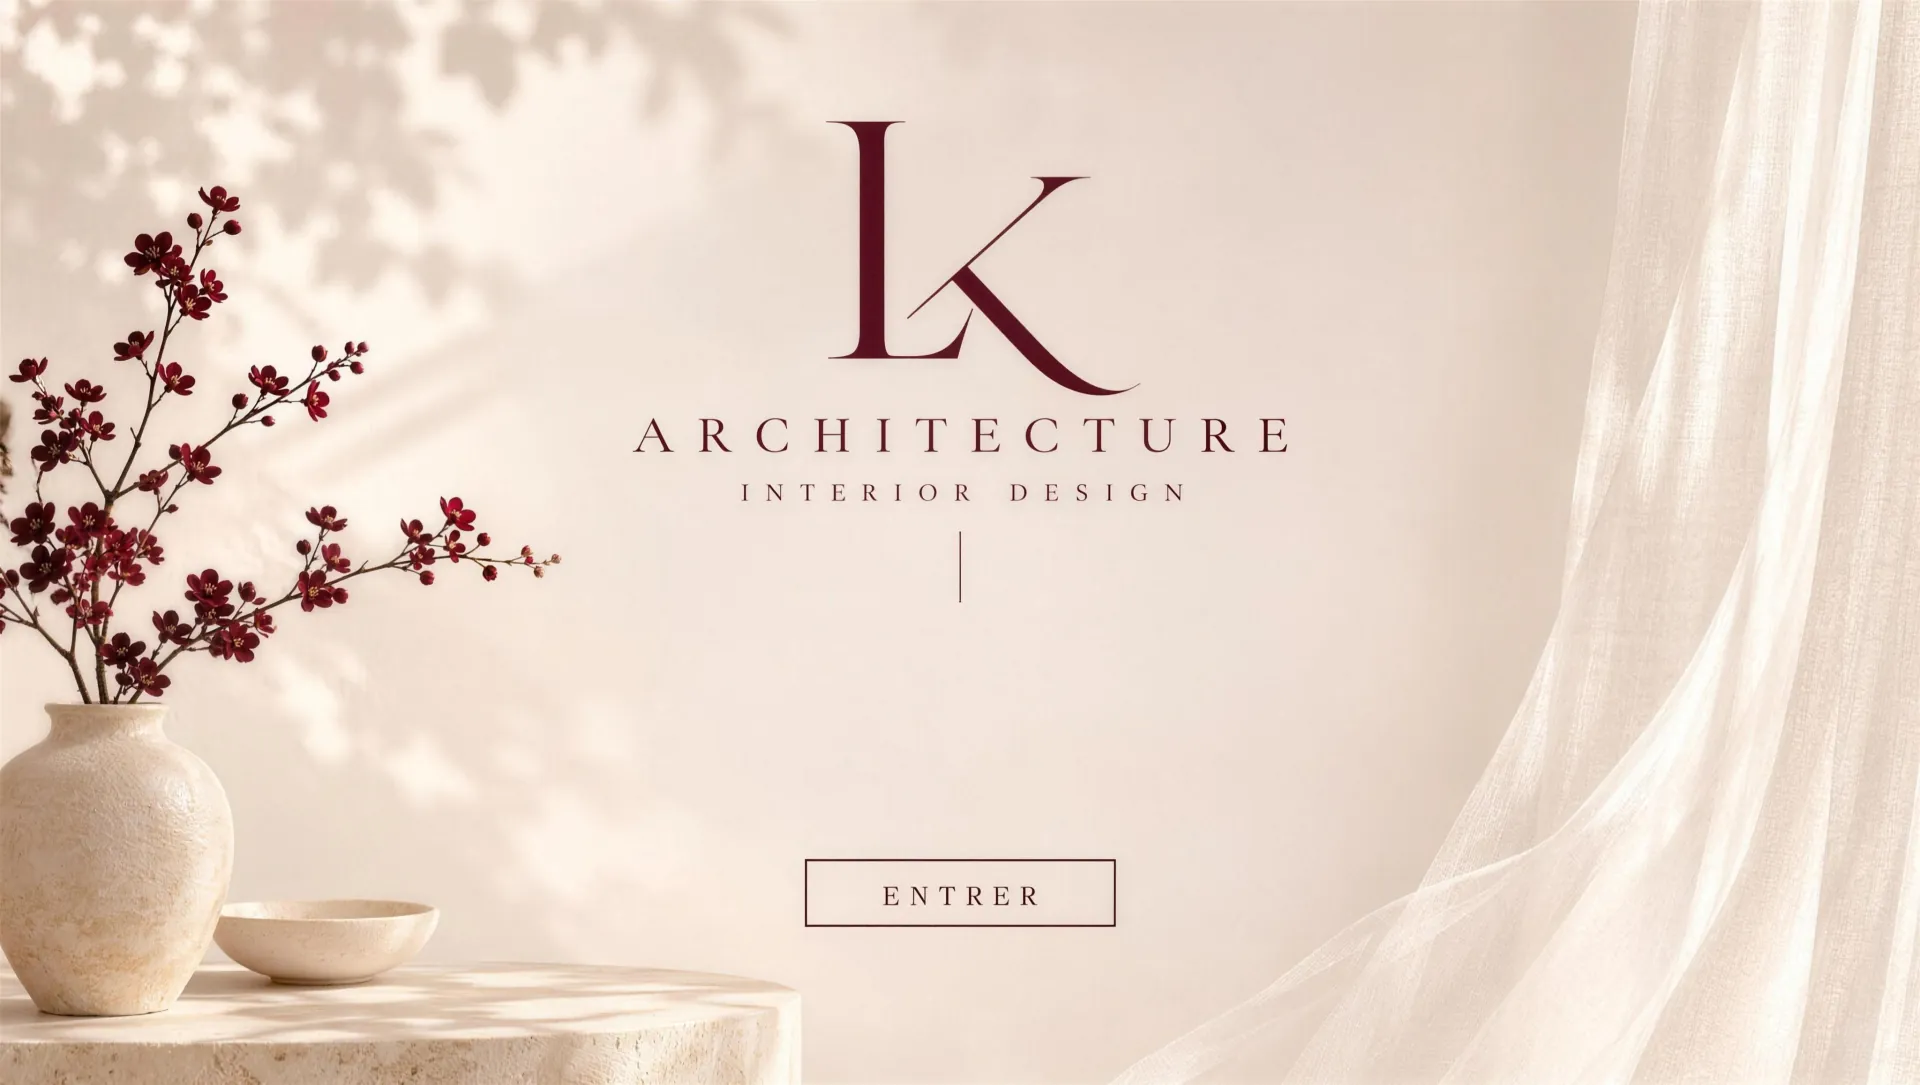
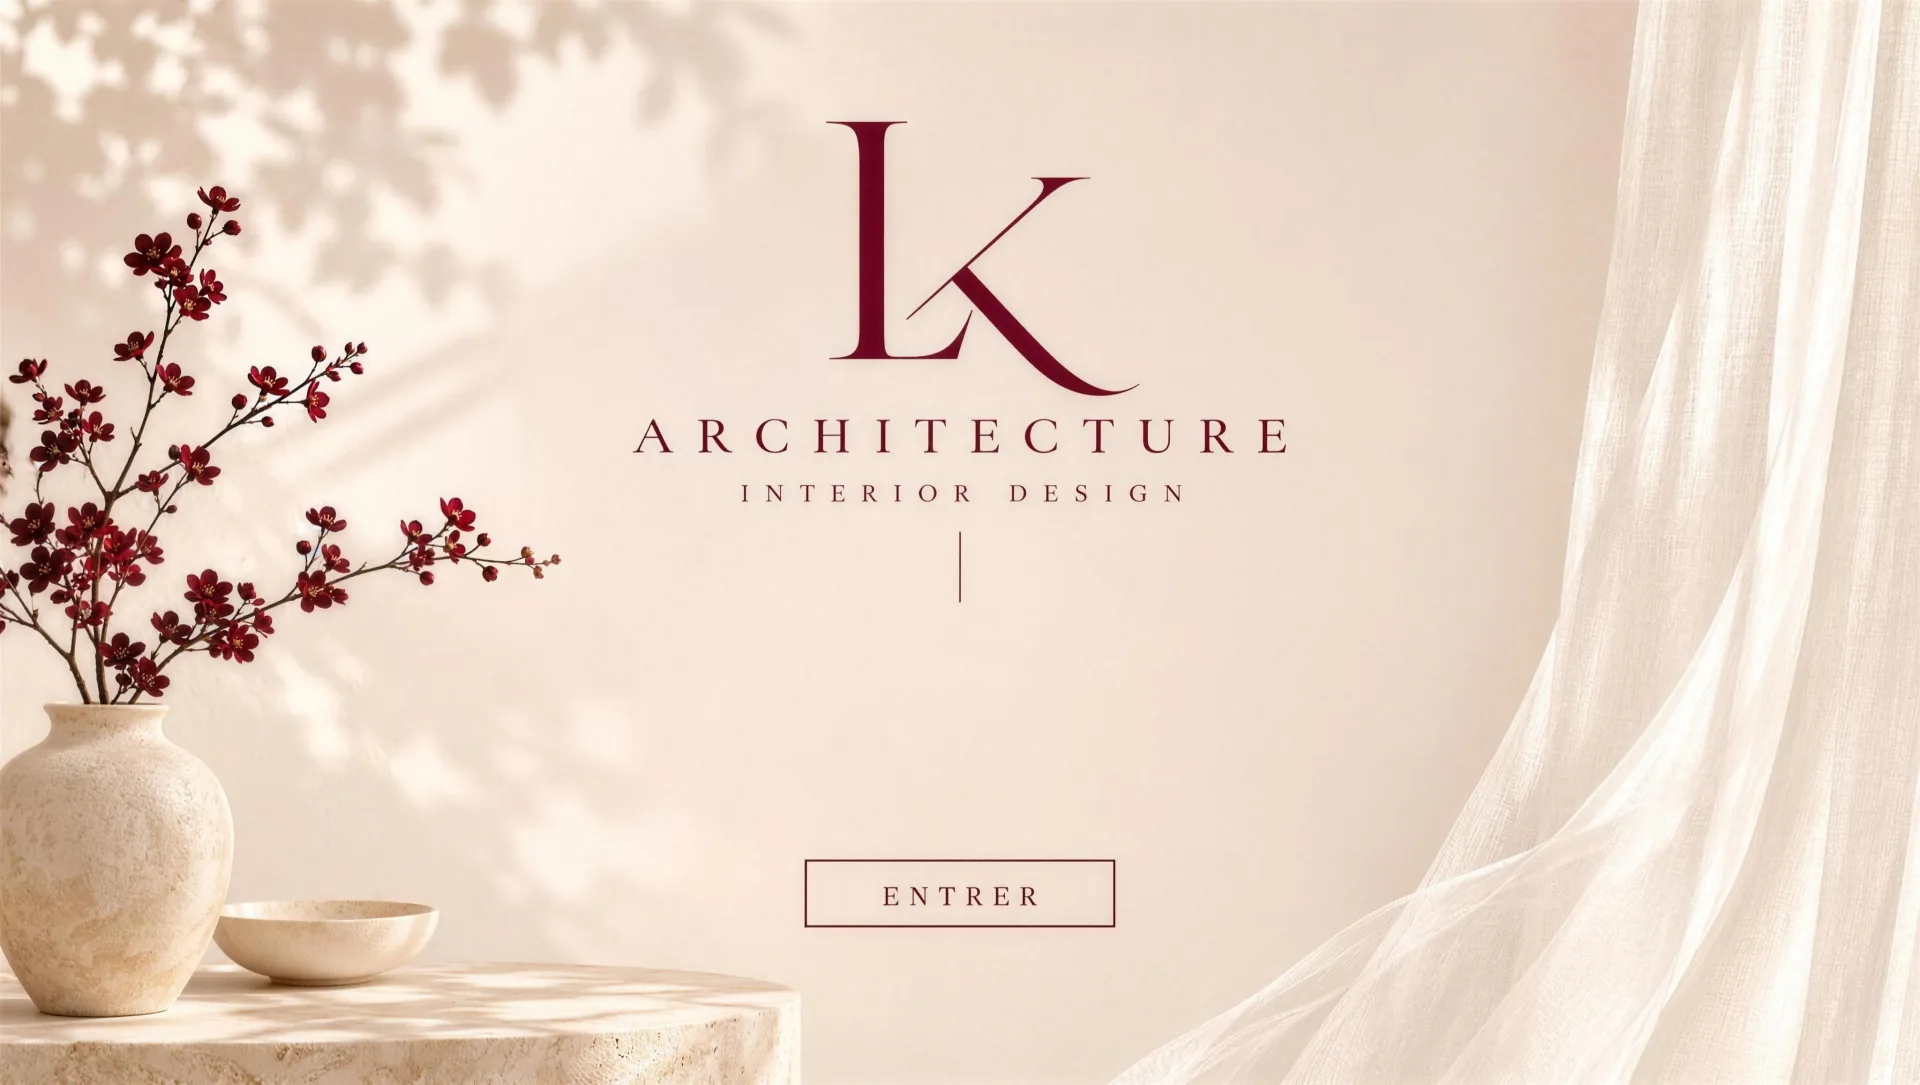
Full uncropped cover from the new PNG, portrait version for phones, English ENTER

diff --git a/en/index.html b/en/index.html
@@ -6,7 +6,8 @@
   <title>LK Architecture — Interior Design in Cessy, Pays de Gex &amp; Geneva</title>
   <meta name="description" content="LK Architecture designs singular, made-to-measure interiors in Cessy, the Pays de Gex and the canton of Geneva: space planning, decoration, plans, 3D visuals, materials and furniture.">
   <meta name="theme-color" content="#eddbcf">
-  <link rel="preload" as="image" type="image/webp" imagesrcset="../img/hero-cover-en-800.webp 800w, ../img/hero-cover-en-1280.webp 1280w, ../img/hero-cover-en-1920.webp 1920w, ../img/hero-cover-en-2560.webp 2560w" imagesizes="(max-aspect-ratio: 1/1) 230vw, 100vw">
+  <link rel="preload" as="image" type="image/webp" media="(min-aspect-ratio: 1/1)" imagesrcset="../img/hero-cover-en-800.webp 800w, ../img/hero-cover-en-1280.webp 1280w, ../img/hero-cover-en-1920.webp 1920w, ../img/hero-cover-en-2560.webp 2560w" imagesizes="100vw">
+  <link rel="preload" as="image" type="image/webp" media="(max-aspect-ratio: 1/1)" imagesrcset="../img/hero-cover-en-p-768.webp 768w, ../img/hero-cover-en-p-1024.webp 1024w, ../img/hero-cover-en-p-1536.webp 1536w" imagesizes="100vw">
   <script type="application/ld+json">{"@context": "https://schema.org", "@type": "ProfessionalService", "@id": "https://lkarchitecture.fr/#lk", "name": "LK Architecture", "url": "https://lkarchitecture.fr/", "description": "Design et architecture d’intérieur sur mesure à Cessy, dans le Pays de Gex le canton de Genève et à Annecy : aménagement, décoration, plans d’aménagement, visuels 3D, choix des matériaux, du mobilier et des luminaires.", "logo": "https://lkarchitecture.fr/img/logo-champagne.svg", "image": ["https://lkarchitecture.fr/img/hero-cover.jpg", "https://lkarchitecture.fr/img/vision-dining.jpg", "https://lkarchitecture.fr/img/vision-marble.jpg"], "email": "lkarchitecture.interior@gmail.com", "telephone": "+33767052190", "address": {"@type": "PostalAddress", "addressLocality": "Cessy", "postalCode": "01170", "addressRegion": "Auvergne-Rhône-Alpes", "addressCountry": "FR"}, "areaServed": [{"@type": "City", "name": "Cessy"}, {"@type": "AdministrativeArea", "name": "Pays de Gex"}, {"@type": "City", "name": "Gex"}, {"@type": "City", "name": "Divonne-les-Bains"}, {"@type": "City", "name": "Ferney-Voltaire"}, {"@type": "City", "name": "Saint-Genis-Pouilly"}, {"@type": "AdministrativeArea", "name": "Canton de Genève"}, {"@type": "City", "name": "Genève"}, {"@type": "City", "name": "Annecy"}], "knowsAbout": ["Architecture d’intérieur", "Design d’intérieur", "Décoration intérieure", "Aménagement intérieur", "Visuels 3D"], "sameAs": ["https://www.instagram.com/liliya.kolo/"]}</script>
   <!--hreflang--><link rel="canonical" href="https://lkarchitecture.fr/en/">
   <link rel="alternate" hreflang="fr" href="https://lkarchitecture.fr/">
@@ -34,7 +35,9 @@
   <main class="hero" id="top">
     <div class="hero__stage">
       <picture class="hero__media">
-        <source type="image/webp" sizes="(max-aspect-ratio: 1/1) 230vw, 100vw"
+        <source media="(max-aspect-ratio: 1/1)" type="image/webp" sizes="100vw" width="1536" height="2752"
+                srcset="../img/hero-cover-en-p-768.webp 768w, ../img/hero-cover-en-p-1024.webp 1024w, ../img/hero-cover-en-p-1536.webp 1536w">
+        <source type="image/webp" sizes="100vw"
                 srcset="../img/hero-cover-en-800.webp 800w, ../img/hero-cover-en-1280.webp 1280w, ../img/hero-cover-en-1920.webp 1920w, ../img/hero-cover-en-2560.webp 2560w">
         <img src="../img/hero-cover-en.jpg" width="1920" height="1084" fetchpriority="high"
              alt="LK Architecture — Interior Design: burgundy LK monogram on a pale wall, a flowering branch, a travertine vase and a linen curtain in morning light.">

diff --git a/index.html b/index.html
@@ -6,7 +6,8 @@
   <title>LK Architecture — Architecture d’intérieur à Cessy, Pays de Gex &amp; Genève</title>
   <meta name="description" content="LK Architecture conçoit des intérieurs singuliers et sur mesure à Cessy, dans le Pays de Gex et le canton de Genève : aménagement, décoration, plans, visuels 3D, matériaux et mobilier.">
   <meta name="theme-color" content="#eddbcf">
-  <link rel="preload" as="image" type="image/webp" imagesrcset="img/hero-cover-800.webp 800w, img/hero-cover-1280.webp 1280w, img/hero-cover-1920.webp 1920w, img/hero-cover-2560.webp 2560w" imagesizes="(max-aspect-ratio: 1/1) 230vw, 100vw">
+  <link rel="preload" as="image" type="image/webp" media="(min-aspect-ratio: 1/1)" imagesrcset="img/hero-cover-800.webp 800w, img/hero-cover-1280.webp 1280w, img/hero-cover-1920.webp 1920w, img/hero-cover-2560.webp 2560w" imagesizes="100vw">
+  <link rel="preload" as="image" type="image/webp" media="(max-aspect-ratio: 1/1)" imagesrcset="img/hero-cover-p-768.webp 768w, img/hero-cover-p-1024.webp 1024w, img/hero-cover-p-1536.webp 1536w" imagesizes="100vw">
   <script type="application/ld+json">{"@context": "https://schema.org", "@type": "ProfessionalService", "@id": "https://lkarchitecture.fr/#lk", "name": "LK Architecture", "url": "https://lkarchitecture.fr/", "description": "Design et architecture d’intérieur sur mesure à Cessy, dans le Pays de Gex le canton de Genève et à Annecy : aménagement, décoration, plans d’aménagement, visuels 3D, choix des matériaux, du mobilier et des luminaires.", "logo": "https://lkarchitecture.fr/img/logo-champagne.svg", "image": ["https://lkarchitecture.fr/img/hero-cover.jpg", "https://lkarchitecture.fr/img/vision-dining.jpg", "https://lkarchitecture.fr/img/vision-marble.jpg"], "email": "lkarchitecture.interior@gmail.com", "telephone": "+33767052190", "address": {"@type": "PostalAddress", "addressLocality": "Cessy", "postalCode": "01170", "addressRegion": "Auvergne-Rhône-Alpes", "addressCountry": "FR"}, "areaServed": [{"@type": "City", "name": "Cessy"}, {"@type": "AdministrativeArea", "name": "Pays de Gex"}, {"@type": "City", "name": "Gex"}, {"@type": "City", "name": "Divonne-les-Bains"}, {"@type": "City", "name": "Ferney-Voltaire"}, {"@type": "City", "name": "Saint-Genis-Pouilly"}, {"@type": "AdministrativeArea", "name": "Canton de Genève"}, {"@type": "City", "name": "Genève"}, {"@type": "City", "name": "Annecy"}], "knowsAbout": ["Architecture d’intérieur", "Design d’intérieur", "Décoration intérieure", "Aménagement intérieur", "Visuels 3D"], "sameAs": ["https://www.instagram.com/liliya.kolo/"]}</script>
   <!--hreflang--><link rel="canonical" href="https://lkarchitecture.fr/">
   <link rel="alternate" hreflang="fr" href="https://lkarchitecture.fr/">
@@ -34,7 +35,9 @@
   <main class="hero" id="top">
     <div class="hero__stage">
       <picture class="hero__media">
-        <source type="image/webp" sizes="(max-aspect-ratio: 1/1) 230vw, 100vw"
+        <source media="(max-aspect-ratio: 1/1)" type="image/webp" sizes="100vw" width="1536" height="2752"
+                srcset="img/hero-cover-p-768.webp 768w, img/hero-cover-p-1024.webp 1024w, img/hero-cover-p-1536.webp 1536w">
+        <source type="image/webp" sizes="100vw"
                 srcset="img/hero-cover-800.webp 800w, img/hero-cover-1280.webp 1280w, img/hero-cover-1920.webp 1920w, img/hero-cover-2560.webp 2560w">
         <img src="img/hero-cover.jpg" width="1920" height="1084" fetchpriority="high"
              alt="LK Architecture — Interior Design : monogramme LK en bordeaux sur un mur clair, branche en fleurs, vase en travertin et voilage de lin dans la lumière du matin.">

diff --git a/css/style.css b/css/style.css
@@ -78,15 +78,28 @@ html.is-arriving .veil { opacity: 1; }
   overflow: hidden;
   background: linear-gradient(to bottom, #e3d1c5 22%, #efddd1 78%);
 }
+/* Landscape: the whole picture is always visible (never cropped); if the screen is
+   not 16:9, the spare strip dissolves into the wall colour. */
 .hero__stage {
   position: absolute; left: 50%; top: 50%;
   aspect-ratio: 4096 / 2313;
-  width: max(100vw, 100svh * 4096 / 2313);
+  width: min(100vw, 100svh * 4096 / 2313);
   transform: translate(-50%, -50%);
 }
 .hero__media, .hero__media img { position: absolute; inset: 0; width: 100%; height: 100%; }
 .hero__media img { object-fit: cover; }
-/* ENTRER button as drawn: x 41.9–58.1 %, y 79.2–85.4 % of the picture */
+/* strips appear only on the side that has spare room */
+.hero__media {
+  -webkit-mask-image: linear-gradient(to bottom, transparent, #000 3%, #000 97%, transparent);
+  mask-image: linear-gradient(to bottom, transparent, #000 3%, #000 97%, transparent);
+}
+@media (min-aspect-ratio: 4096/2313) {
+  .hero__media {
+    -webkit-mask-image: linear-gradient(to right, transparent, #000 3%, #000 97%, transparent);
+    mask-image: linear-gradient(to right, transparent, #000 3%, #000 97%, transparent);
+  }
+}
+/* ENTRER button as drawn: x 41.9–58.1 %, y 79.2–85.3 % of the picture */
 .hero__enter {
   position: absolute; left: 41.4%; width: 17.2%; top: 78.4%; height: 7.8%;
   z-index: 1; display: block;
@@ -95,12 +108,12 @@ html.is-arriving .veil { opacity: 1; }
 .hero__enter:hover { background: rgba(92, 13, 31, .07); }
 .hero__enter:focus-visible { outline: 2px solid var(--burgundy); outline-offset: 3px; }
 
-/* Portrait screens: the picture is shown wider than the screen so the monogram
-   stays legible, centred on it, with its top and bottom edges dissolving into the wall colour. */
+/* Portrait screens: the vertical version of the same cover (1536 × 2752) fills the screen. */
 @media (max-aspect-ratio: 1/1) {
-  .hero__stage { width: 230vw; }
-  .hero__media { -webkit-mask-image: linear-gradient(to bottom, transparent, #000 20%, #000 80%, transparent); mask-image: linear-gradient(to bottom, transparent, #000 20%, #000 80%, transparent); }
-  .hero__enter { top: 77.4%; height: 9.6%; }
+  .hero__stage { aspect-ratio: 1536 / 2752; width: max(100vw, 100svh * 1536 / 2752); }
+  .hero__media { -webkit-mask-image: none; mask-image: none; }
+  /* button as drawn: x 41.9–58.3 %, y 59.4–61.5 %; hit area padded to a comfortable touch size */
+  .hero__enter { left: 37%; width: 26%; top: 57.6%; height: 5.6%; min-height: 44px; }
 }
 
 /* ───────────────────────── NAV ───────────────────────── */
